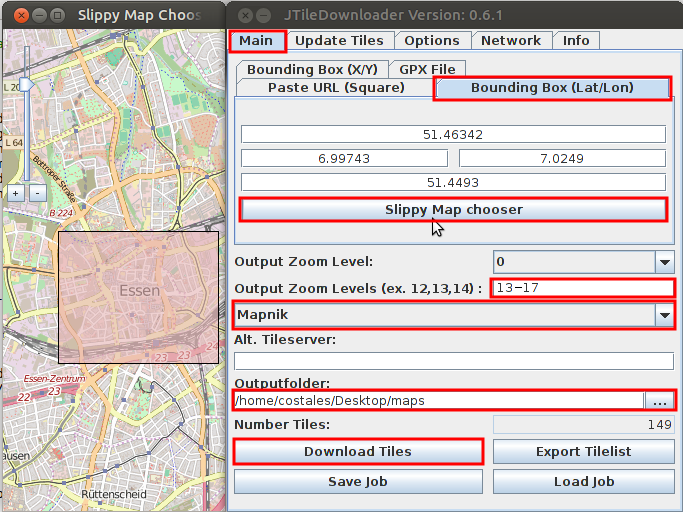
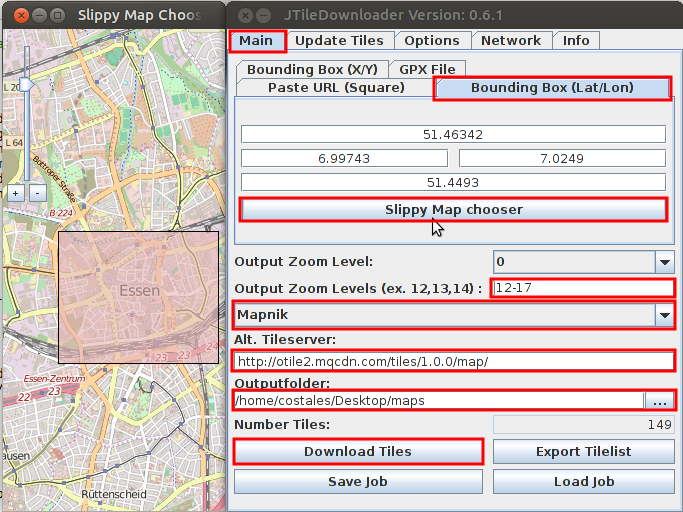
New tuto

Changed region(s): [[0.3382, 0.6562, 1.0, 0.75], [0.7379, 0.5312, 0.7687, 0.5625]]

diff --git a/offline/index.html b/offline/index.html
@@ -72,8 +72,8 @@
     <li class="option-all animate-in">
       <h4>Download the map</h4>
       <p>In <em>Main</em> tab &gt; <em>Bounding Box (Lat/Lon)</em> tab &gt; <em>Slippy Map chooser</em> button &gt; Choose the area to download.</p>
-      <p>In <em>Output Zoom Levels</em> set zooms: <em>13-17</em></p>
-      <p>In <em>Mapnik</em> set your favourite map.</p>
+      <p>In <em>Output Zoom Levels</em> set zooms: <em>12-17</em></p>
+      <p>In <em>Alt. Tileserver</em> set another server, as Mapquest: http://otile2.mqcdn.com/tiles/1.0.0/map/ <strong>or</strong> in <em>Mapnik</em> set your favourite map</p>
       <p>In <em>Outputfolder</em> set where the maps will be saved.</p>
       <p><strong>And just click on <em>Download Tiles</em> button</strong>.</p>
         <span><img src="files/jarea.png"></span>
